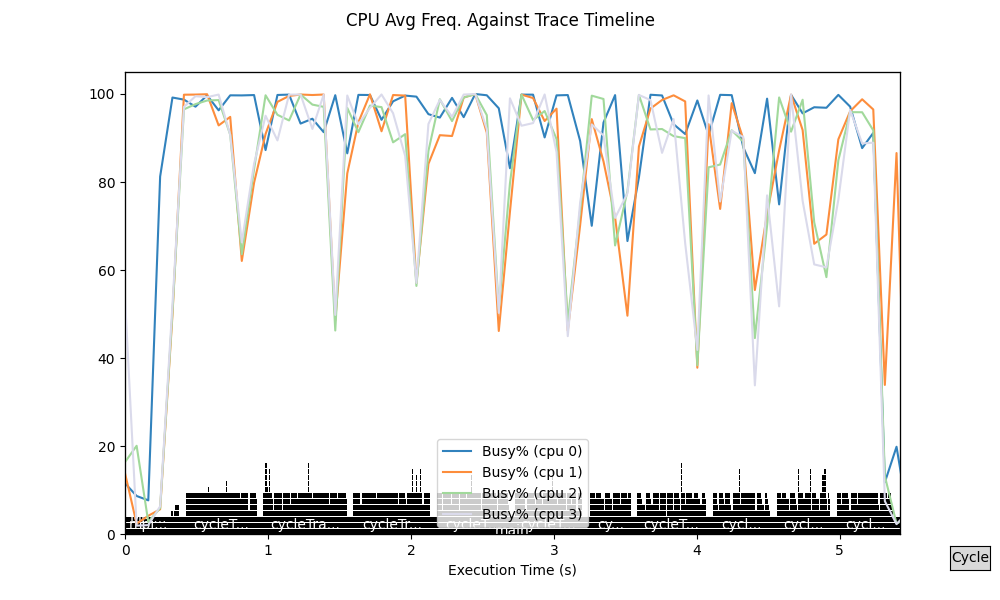
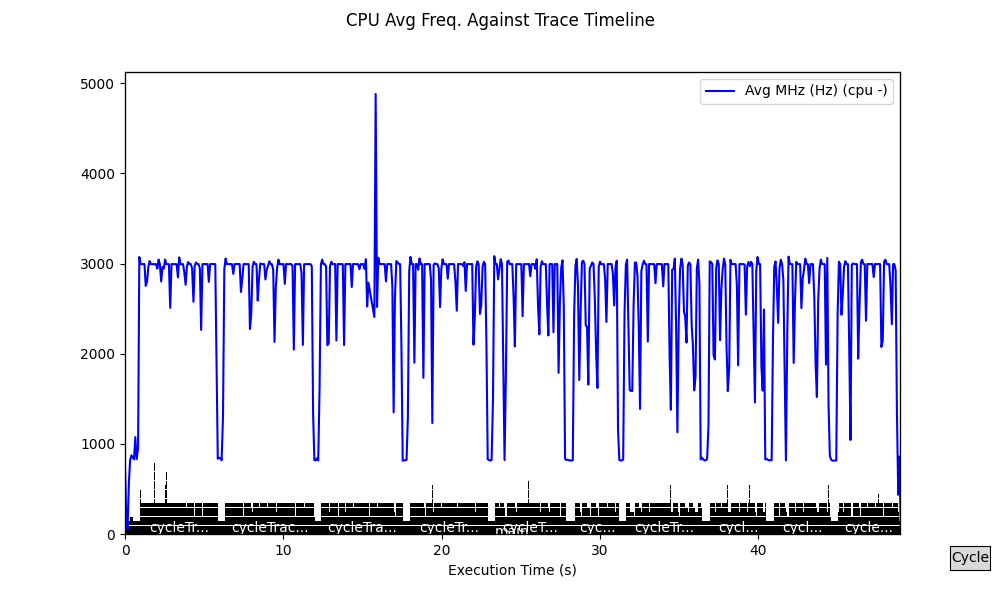
feat: add get-stats

Changed region(s): [[0.062, 0.12, 0.899, 0.93], [0.062, 0.27, 0.124, 0.33], [0.062, 0.12, 0.124, 0.18]]

diff --git a/get-stats.py b/get-stats.py
@@ -1,0 +1,22 @@
+import pandas as pd
+
+stats_csv = pd.read_csv('./data/stats.csv')
+
+
+def get_total_energy():
+  start_time = int(stats_csv["TIME_STAMP"].iloc[0])
+  end_time = int(
+    stats_csv["TIME_STAMP"].iloc[stats_csv.loc[stats_csv["CPU"] == "-"].index[1]])
+  delta = (end_time - start_time)/1e6
+  energy = 0  # Joules
+  for watt in stats_csv["PkgWatt"][stats_csv["PkgWatt"].notnull()].iloc[:-2]:
+    energy += float(watt) * delta
+  return energy
+
+def get_total_exec_time():
+  start_time = int(stats_csv["TIME_STAMP"].iloc[0])
+  end_time = int(stats_csv["TIME_STAMP"].iloc[-1])
+  return (end_time-start_time)/1e3
+
+print(f"Energy {get_total_energy():.0f} J")
+print(f"Total runtime {get_total_exec_time():.0f} ms")

diff --git a/main.py b/main.py
@@ -165,4 +165,4 @@ timeline = generate_stack_timeline("./data/trace.json")
 # pass in timeline, name of data file, the columns to plot, and then plot title.
 # plot_event_timeline(timeline, "main_test1731268056.txt",["POWER", "FREQ"], "CPUx Power and Frequency Against Trace Timeline")
 plot_event_timeline(timeline, "./data/stats.csv",
-                    ["Busy%"], [0, 1, 2, 3], "CPU Avg Freq. Against Trace Timeline")
+                    ["Avg_MHz"], ['-'], "CPU Avg Freq. Against Trace Timeline")
